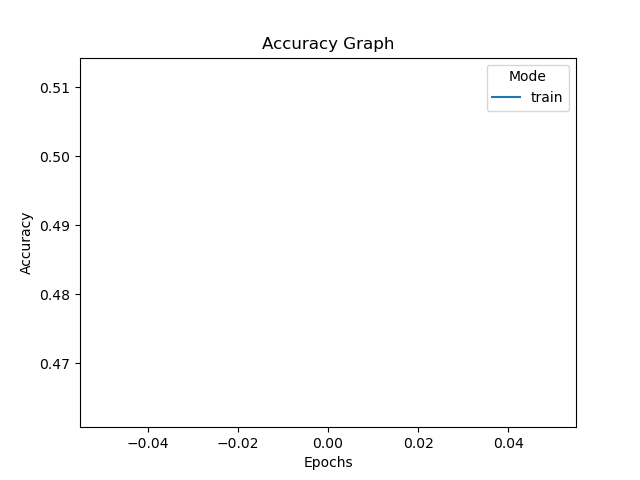
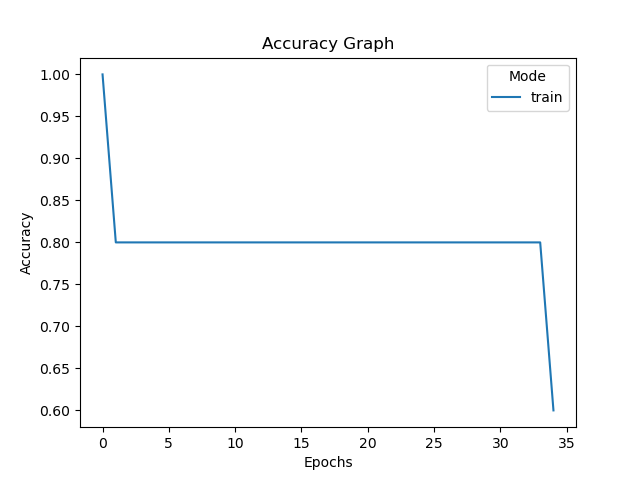
Add files via upload

diff --git a/train.py b/train.py
@@ -12,7 +12,7 @@ import tensorflow as tf
 # %matplotlib inline
 import matplotlib.pyplot as plt
 
-from loss import mixed_loss,focal_loss,l_softmax_loss,contrastive_loss
+from loss import mixed_loss,focal_loss,l_softmax_loss,contrastive_loss,AdaptiveContrastiveLoss
 from keras.models import load_model
 import csv
 from sklearn.model_selection import train_test_split
@@ -38,14 +38,14 @@ print(x_train_List.shape)
 print('test shape：')
 print(x_test_List.shape)
 
-siamese = SiameseNetwork(seed=0, width=105, height=105, cells=3, loss=contrastive_loss, metrics=['accuracy'],
+siamese = SiameseNetwork(seed=0, width=105, height=105, cells=3, loss=AdaptiveContrastiveLoss(), metrics=['accuracy'],
               optimizer= Adam(0.00006), dropout_rate=0.4)
 #siamese_net = load_model('/content/drive/MyDrive/lfwa/lfw2/best_c_76.0.h5', custom_objects={"W_init": W_init ,"b_init": b_init})
 #siamese.siamese_net.load_weights("./weight/best_c_2.h5")
 
 loss_every = 10
 batch_size = 32
-N = 10
+N = 5
 best = 35.9
 best_epoch = 0
 train_epoch_loss = []
@@ -54,16 +54,16 @@ train_epoch_acc = []
 test_epoch_loss = []
 test_epoch_acc = []
 
-for i in range(1,500000):
-  
+for i in range(1,300):
   loader = Siamese_Loader(x_train_List)
   x_train, y_train = loader.get_traingPairs(batch_size=200)
+  #x_train, y_train = loader.make_oneshot_task(N=5)
   x_train_0, x_val_0, y_train_0, y_val_0 = train_test_split(x_train[0], y_train,
-                                        test_size=0.2,
-                                        random_state=0)
+                                          test_size=0.2,
+                                          random_state=0)
   x_train_1, x_val_1, y_train_1, y_val_1 = train_test_split(x_train[1], y_train,
-                                        test_size=0.2,
-                                        random_state=0)
+                                          test_size=0.2,
+                                          random_state=0)
   x_train_0 = np.array(x_train_0, dtype='float64')
   x_val_0 = np.array(x_val_0, dtype='float64')
   x_train_1 = np.array(x_train_1, dtype='float64')
@@ -72,57 +72,41 @@ for i in range(1,500000):
   x_val = [x_val_0, x_val_1]
   #print(x_train_0.shape,x_train_1.shape,x_val_0.shape,x_val_1.shape,y_train_0.shape, y_train_1.shape,y_val_0.shape,y_val_1.shape)
   if y_train_0[0] != y_train_1[0] and y_val_0[0] != y_val_1[0]:
-    raise Exception("y train lists or y validation list do not equal")
-
+      raise Exception("y train lists or y validation list do not equal")
+  
   callback = []
   es = EarlyStopping(monitor='loss', min_delta=0.01, patience=5, mode='auto', verbose=1)
   callback.append(es)
 
-  #history = siamese.siamese_net.fit(x_train, y_train_0, batch_size=batch_size, validation_data= (x_val,y_val_0), callbacks=callback, verbose=1)
-  history = siamese.siamese_net.fit(x_train, y_train_0, batch_size=batch_size, callbacks=callback, verbose=1)
-
-  train_epoch_loss.append(history.history['loss'])
-  train_epoch_acc.append(history.history['accuracy'])
-  
-  if i % loss_every == 0:
+  history = siamese.siamese_net.fit(x_train, y_train_0, validation_data= (x_val,y_val_0), callbacks=callback, verbose=1)
+  #history = siamese.siamese_net.fit(x_train, y_train, batch_size=batch_size, callbacks=callback, verbose=1)
     
-    loader2 = Siamese_Loader(x_test_List)
-    val_loss, val_acc = siamese.siamese_net.test_on_batch(x_val, y_val_0)
-    print("iteration {}, validation loss : {:.7f},validation acc : {:.7f}".format(i,val_loss, val_acc))
+  train_epoch_loss.append(history.history['loss'][0])
+  train_epoch_acc.append(history.history['accuracy'][0])
 
-    test_epoch_loss.append(val_loss)
-    test_epoch_acc.append(val_acc)
-    """
-    print("iteration {}".format(i))
-    loader2 = Siamese_Loader(x_test_List)
-    val_acc = loader2.test_oneshot(siamese.siamese_net,N,k=550,verbose=True)
-    """
+  #-------------Test------------------------------------
+  loader2 = Siamese_Loader(x_test_List)
+  val_loss, val_acc = siamese.siamese_net.test_on_batch(x_val, y_val_0)
+  print("iteration {}, validation loss : {:.7f},validation acc : {:.7f}".format(i,val_loss, val_acc))
 
-    if val_acc >= best:
-      best = val_acc
-      best_epoch = i
-      print("saving")
-      siamese.siamese_net.save('./weight/best_convnext_closs.h5')
-    
-    print('starte picture for test')
-    path='./graph_folder/'
-    num_epoch=i, 
-    epochs = [x for x in range(num_epoch[0])]
-    print(len(epochs),len(test_epoch_acc))
-    #--LOSS--#
-    test_accuracy_df = pd.DataFrame({"Epochs":epochs, "Accuracy":test_epoch_acc, "Mode":['test']*(num_epoch[0])})
-    test_loss_df = pd.DataFrame({"Epochs":epochs, "Loss":test_epoch_loss, "Mode":['test']*(num_epoch[0])})
-              
-    sns.lineplot(data=test_accuracy_df.reset_index(), x='Epochs', y='Accuracy', hue='Mode')
-    plt.title('Accuracy Graph')
-    plt.savefig(path+f'test_accuracy_epoch.png')
-    plt.clf()
+  test_epoch_loss.append(val_loss)
+  test_epoch_acc.append(val_acc)
+  """
+  loader2 = Siamese_Loader(x_test_List)
+  val_acc = loader2.test_oneshot(siamese.siamese_net,N,k=550,verbose=True)
 
-    sns.lineplot(data=test_loss_df.reset_index(), x='Epochs', y='Loss', hue='Mode')
-    plt.title('Loss Graph')
-    plt.savefig(path+f'test_loss_epoch.png')
-    plt.clf()
-  
+  print("iteration {}, validation acc : {:.7f}".format(i, val_acc))
+
+  test_epoch_acc.append(val_acc)
+  """
+  if val_acc >= best:
+    best = val_acc
+    best_epoch = i
+    print("saving")
+    siamese.siamese_net.save('./weight/best_cbam_closs.h5')
+
+  #num_epoch = int(i / loss_every), 
+
   print('starte picture for train')
   path='./graph_folder/'
   num_epoch=i, 
@@ -131,6 +115,8 @@ for i in range(1,500000):
 
   train_accuracy_df = pd.DataFrame({"Epochs":epochs, "Accuracy":train_epoch_acc, "Mode":['train']*(num_epoch[0])})
   train_loss_df = pd.DataFrame({"Epochs":epochs, "Loss":train_epoch_loss, "Mode":['train']*(num_epoch[0])})
+
+  test_accuracy_df = pd.DataFrame({"Epochs":epochs, "Accuracy":test_epoch_acc, "Mode":['test']*(num_epoch[0])})
 
   sns.lineplot(data=train_accuracy_df.reset_index(), x='Epochs', y='Accuracy', hue='Mode')
   plt.title('Accuracy Graph')
@@ -142,5 +128,16 @@ for i in range(1,500000):
   plt.savefig(path+f'train_loss_epoch.png')
   plt.clf()
 
+  sns.lineplot(data=test_accuracy_df.reset_index(), x='Epochs', y='Accuracy', hue='Mode')
+  plt.title('Accuracy Graph')
+  plt.savefig(path+f'test_accuracy_epoch.png')
+  plt.clf()
+
+  sns.lineplot(data=test_loss_df.reset_index(), x='Epochs', y='Loss', hue='Mode')
+  plt.title('Loss Graph')
+  plt.savefig(path+f'test_loss_epoch.png')
+  plt.clf()
+  
   print('picture save done  start next epoch')
   print(f'Best accuracy at {best_epoch}')
+

diff --git a/loss.py b/loss.py
@@ -2,6 +2,8 @@ import keras
 from sklearn.preprocessing import  OneHotEncoder
 import tensorflow as tf
 from keras import backend as K
+import tensorflow as tf
+from tensorflow.keras.losses import Loss
 
 def l_softmax_loss(y_true, y_pred, m=4, depth=10):
     depth = len(y_true)
@@ -58,3 +60,22 @@ def mixed_loss(y_true, y_pred, alpha=0.25, gamma=2.0, margin=1.0, num_classes=20
     total_loss = c_loss
 
     return total_loss
+
+class AdaptiveContrastiveLoss(Loss):
+    def __init__(self, initial_margin=1.0, margin_update_rate=0.01):
+        super(AdaptiveContrastiveLoss, self).__init__()
+        self.margin = initial_margin
+        self.margin_update_rate = margin_update_rate
+
+    def update_margin(self, margin_difficulty):
+        self.margin += self.margin_update_rate * margin_difficulty
+
+    def call(self, y_true, distances):
+        # Calculate contrastive loss
+        loss = y_true * tf.square(distances) + (1 - y_true) * tf.square(tf.maximum(self.margin - distances, 0.0))
+        
+        # Estimate difficulty based on the margin difference
+        margin_difficulty = tf.square(self.margin - distances) * (1 - y_true)
+        self.update_margin(margin_difficulty)
+
+        return tf.reduce_mean(loss)
